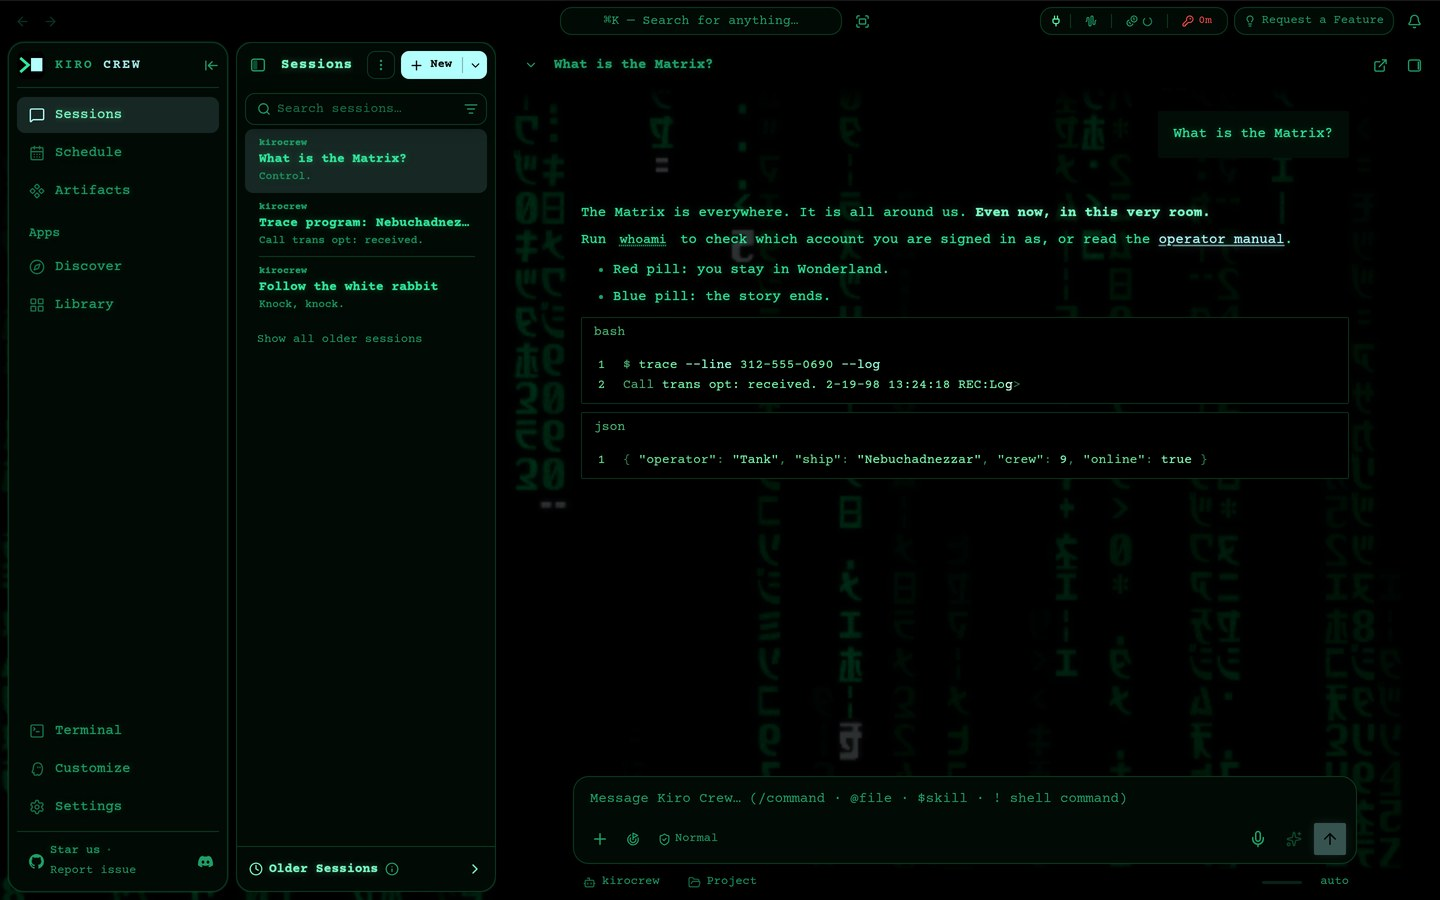
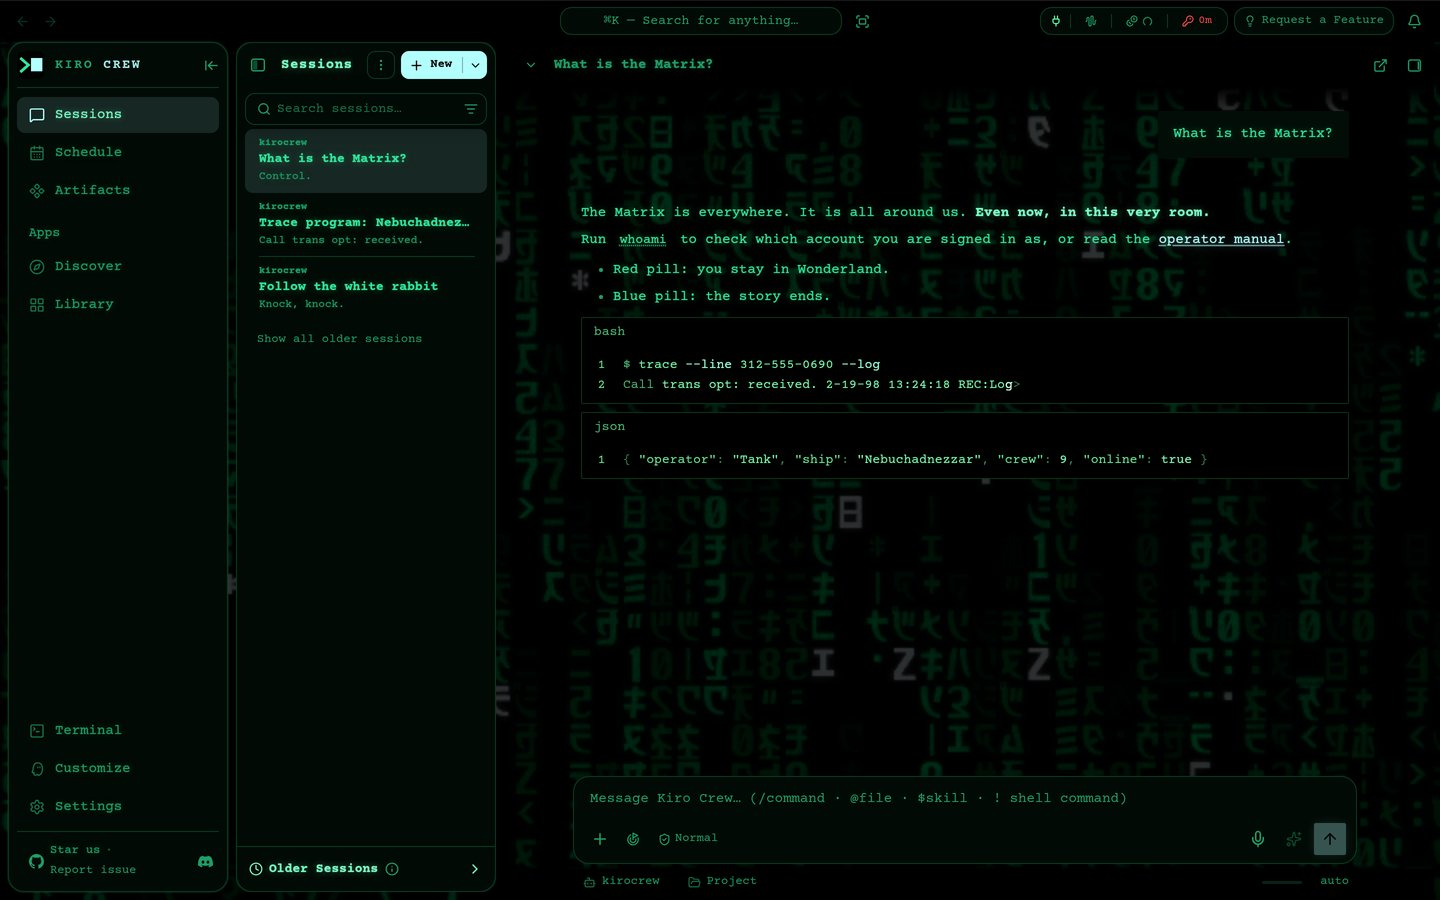
Ambient rain moves like the film
Measured from the 1999 film's opening titles at its native 24 fps: heads jump whole cells per film frame (mostly one row, sometimes none or two) at 9-37 rows/s, trails are mostly a few rows with a long tail, about two drops share a column, about 70% of cells are lit, and a lit glyph changes about once a second. The overlay now runs at 24 fps on a fixed film-frame clock. Contrast is unchanged; CPU in software rendering is about 20-22% of one core. README numbers and screenshots updated.

diff --git a/overlays/ambient.html b/overlays/ambient.html
@@ -26,11 +26,16 @@
  * a fixed grid, a drop is a wave of light passing down a column, drops in one
  * column never collide, some heads flare cool white, lit glyphs flicker. The
  * colours are the film's, scaled down in linear light by GAIN so body text
- * keeps at least 4.5:1 over the brightest glyph. Drops are slower, sparser and
- * flicker less than the screensaver's.
+ * keeps at least 4.5:1 over the brightest glyph.
+ *
+ * Motion is the film's, measured from the opening titles (see the repo README):
+ * 24 frames a second, heads jump whole cells per film frame (mostly one row,
+ * sometimes none or two) at about 9-37 rows a second, trails are mostly a few
+ * rows with a long tail, about two drops share a column, and a lit glyph
+ * changes about once a second.
  *
  * Draws only in dark mode (light mode is the Construct: plain white), never
- * under reduced motion, and never while the tab is hidden. Capped at 15 fps.
+ * under reduced motion, and never while the tab is hidden.
  * Runs inside the dashboard's sandboxed overlay iframe (no network, no storage).
  */
 (() => {
@@ -39,7 +44,8 @@
 
   // Share of the film's light that reaches the screen, in linear light.
   const GAIN = 0.03
-  const FPS = 15
+  // The film's frame rate: the rain only changes when a film frame advances.
+  const FPS = 24
   // Canvas pixels per CSS pixel. Below 1 the browser scales the canvas up, which
   // softens the glyphs (they read as background) and cuts the per-frame cost.
   const SCALE = 0.5
@@ -117,23 +123,26 @@
     timers = new Float32Array(cols * rows)
     for (let i = 0; i < grid.length; i++) {
       grid[i] = (Math.random() * RAIN.count) | 0
-      timers[i] = Math.random() * 6
+      timers[i] = Math.random() * 1.3
     }
     columns = []
     for (let c = 0; c < cols; c++) columns.push(newColumn())
   }
 
   function newColumn() {
-    // About a fifth of the screensaver's speed, with shorter trails and
-    // longer gaps, so about half as many glyphs are lit at once.
-    const period = rows * (2.2 + Math.random() * 2.6)
+    // Film: trails median ~5 rows with a tail past the screen height, short
+    // gaps (about two drops per column, ~70 % of cells lit), heads at 9-37
+    // rows/s. With ~2 heads per column, 35 % white leads keeps the film's
+    // share of white lead glyphs.
+    const trail = 2 + 32 * Math.pow(Math.random(), 1.6)
+    const period = Math.round(trail + 2 + Math.random() * 6)
     return {
-      speed: 1.6 + Math.random() * 2,
+      speed: 9 + Math.random() * 28,
       period,
-      trail: period * (0.3 + Math.random() * 0.25),
-      phase: Math.random() * period,
+      trail,
+      phase: Math.floor(Math.random() * period),
       gain: 0.7 + Math.random() * 0.3,
-      lead: Math.random() < 0.6,
+      lead: Math.random() < 0.35,
     }
   }
 
@@ -142,7 +151,8 @@
     leads.length = 0
     for (let c = 0; c < cols; c++) {
       const col = columns[c]
-      const head = now * col.speed + col.phase
+      // Whole cells: the head sits on a glyph and jumps on film frames.
+      const head = Math.floor(now * col.speed) + col.phase
       const x = c * cellW + (cellW - gw) / 2
       for (let r = 0; r < rows; r++) {
         let d = (head - r) % col.period
@@ -156,7 +166,8 @@
         if (b < 0.14) continue
         if (timers[i] <= 0) {
           grid[i] = (Math.random() * RAIN.count) | 0
-          timers[i] = 1 + Math.random() * (b > 1 ? 0.8 : 5)
+          // Film: a lit glyph changes about once a second; white leads faster.
+          timers[i] = 0.25 + Math.random() * (b > 1 ? 0.2 : 1.1)
         }
         const g = grid[i]
         const sx = (g % RAIN.cols) * RAIN.cell
@@ -219,18 +230,22 @@
     window.addEventListener('resize', layout)
 
     const FRAME = 1000 / FPS
-    let raf = 0, running = false, last = 0, clock = 0, sinceDraw = 0
+    let raf = 0, running = false, last = 0, clock = 0, acc = 0
     let benchN = 0, benchSum = 0, benchMax = 0
 
     function frame(ts) {
       if (!running) return
       const dt = Math.min(250, ts - last)
       last = ts
-      sinceDraw += dt
-      if (sinceDraw >= FRAME - 1) {
-        const step = Math.min(250, sinceDraw) / 1000
+      acc += dt
+      // Advance whole film frames and keep the remainder, so a 60 Hz screen
+      // shows them on an even 3-2-3-2 cadence (24 a second, like film on TV)
+      // and every drawn frame moves the rain by the same film time.
+      if (acc >= FRAME - 2) {
+        const n = Math.min(3, Math.max(1, Math.floor((acc + 2) / FRAME)))
+        acc = Math.min(FRAME, Math.max(0, acc - n * FRAME))
+        const step = n / FPS
         clock += step
-        sinceDraw = 0
         const t0 = bench ? performance.now() : 0
         const gw = cellW * 1.04 / RAIN.inkW
         const gh = cellH * 0.92 / RAIN.inkH
@@ -258,7 +273,7 @@
       if (want && !running) {
         running = true
         last = performance.now()
-        sinceDraw = FRAME
+        acc = FRAME
         raf = requestAnimationFrame(frame)
         canvas.classList.add('on')
       } else if (!want && running) {

diff --git a/README.md b/README.md
@@ -42,10 +42,10 @@ To update, install the same URL again.
 
 - **Behind everything.** The rain paints under the nav, the session list, the chat header, message bubbles, code blocks and the composer, so it shows only in the open space of a page. It takes no clicks.
 - **Contrast.** The rain uses the film's colors at 3% of their light, in linear light. Over the brightest glyph, body text (`--text`) keeps 7.9:1 and bright text (`--text-strong`) 10.4:1. Muted text (`--muted`) drops to 3.8:1 where it sits over the rain.
-- **Motion.** Drops fall at about a fifth of the screensaver's speed, with trails about half as long. The glyph shapes and grid are the screensaver's, and the hues stay within 5° of it.
+- **Motion.** It moves like the film's opening titles, measured at the film's 24 frames per second. Drop heads jump whole cells on each film frame: mostly one row, sometimes none or two. They fall at 9–37 rows a second (median about 22), about one screen height a second. Most trails are a few rows long and some run past the screen height. About two drops share a column, about 70% of cells are lit, and a lit glyph changes about once a second. The glyph shapes and grid are the screensaver's, and the hues stay within 5° of it.
 - **Light mode** stays plain white. In the film the Construct is empty white space, and the rain only appears on the black operator screens. On white, the rain would have to be dark ink, which is a different effect.
 - **Reduced motion.** When the OS asks for reduced motion, Kiro Crew does not load the rain, and the page shows a plain black background.
-- **CPU.** At most 15 frames per second, drawn at half resolution, paused while the tab is hidden and in light mode. In headless Chromium with software rendering, a frame takes about 4 ms, about 10% of one core.
+- **CPU.** 24 frames per second, drawn at half resolution, paused while the tab is hidden and in light mode. In headless Chromium with software rendering, a frame takes about 5–6 ms, and the rain uses about 20–22% of one core.
 
 The rain follows the film's rules as documented by [Rezmason/matrix](https://github.com/Rezmason/matrix): glyphs sit in a fixed grid and never move, a drop is a wave of light passing down a column, drops in one column never collide, some heads flare white, and glyphs flicker.
 
